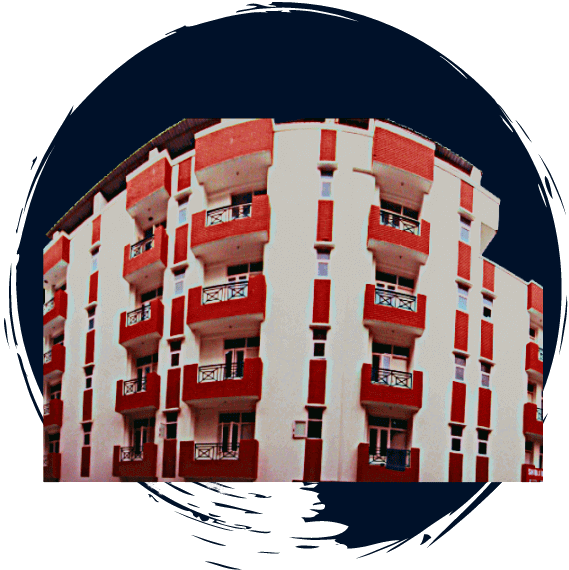
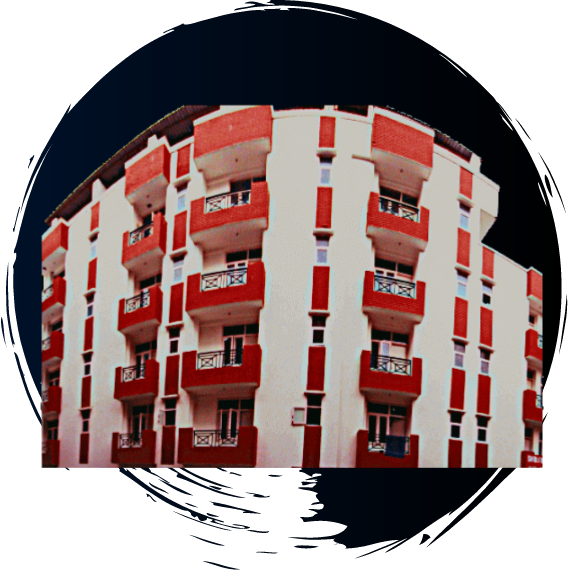
update intro img

diff --git a/index.html b/index.html
@@ -57,7 +57,7 @@
         </header>
         <div class="intro">
             <div class="intro-1st-child m-bottom-md">
-                <img class="campus-img" src="images/shibli-campus-design.png" loading="eager" alt="Shibli campus design">
+                <img class="campus-img" src="images/Untitled design (36)1.png" loading="eager" alt="Shibli campus design">
             </div>
             <div class="intro-2nd-child">
                 <h1 class="fs-600 m-bottom-sm">A boys hostel based in <span class="fw-600">New Delhi.</span> </h1>
